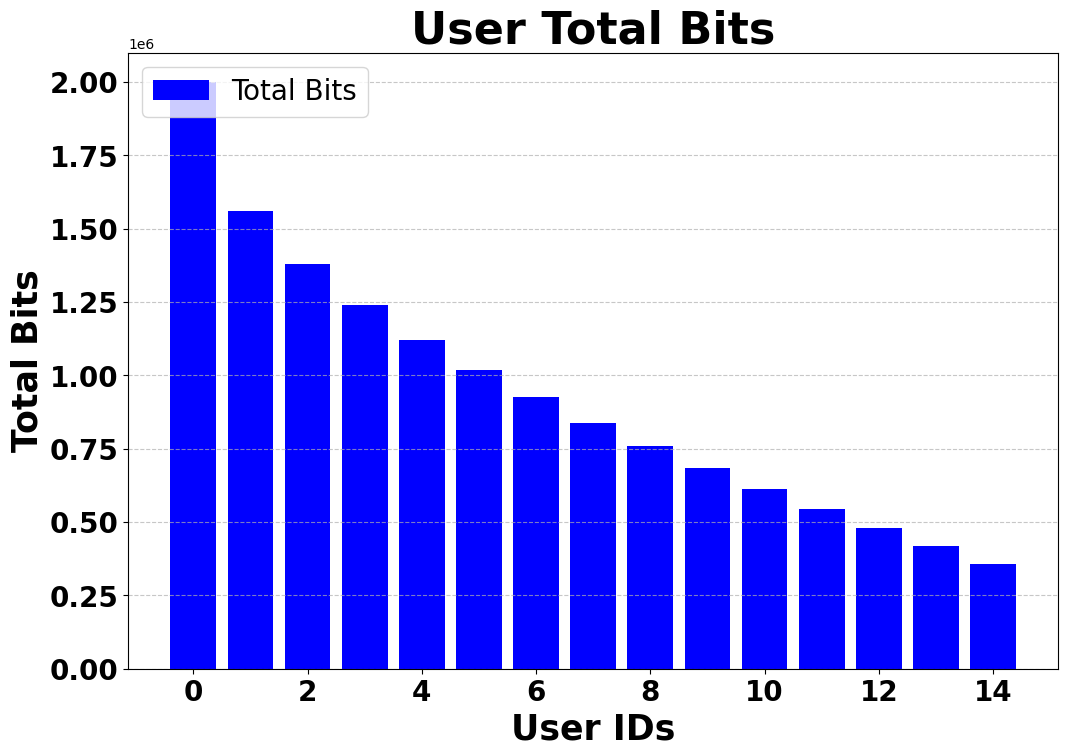
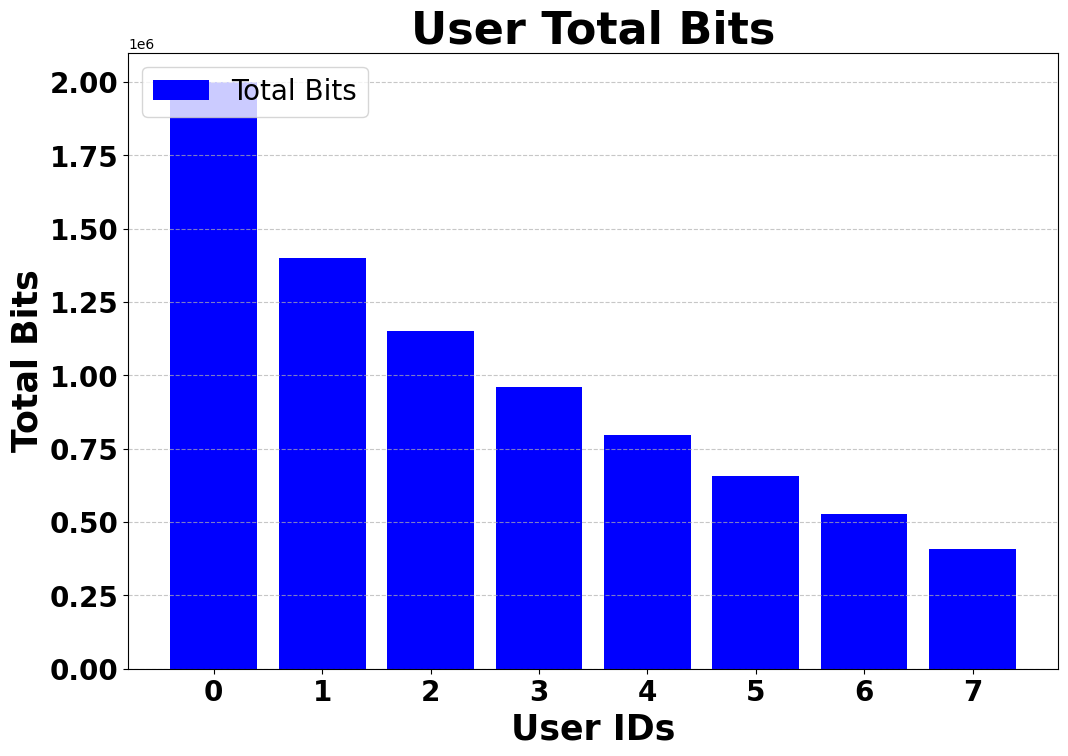
Pure Game Trials

diff --git a/submodular_game_main.py b/submodular_game_main.py
@@ -4,14 +4,9 @@ import pickle
 import jax.numpy as jnp
 import logging
 from plot_graphs import plot_graphs
+from Utility_functions import setup_logger
 
-# Setup logging
-logging.basicConfig(
-	filename='single_game.log',  # Log file name
-	filemode='w',            # Mode: 'w' for overwrite, 'a' for append
-	level=logging.INFO,      # Logging level
-	format='%(asctime)s - %(levelname)s - %(message)s'  # Format of the log messages
-)
+system_logger = setup_logger('single_game', 'single_game.log')
 
 # Create a random key
 key = random.PRNGKey(20)
@@ -20,7 +15,7 @@ key = random.PRNGKey(20)
 N = 1
 #U = 100
 # Generate random user number for each node
-U = random.randint(key, (N,), 15, 15)
+U = random.randint(key, (N,), 8, 8)
 NODE_RADIUS = 2
 MIN_DISTANCE_BETWEEN_NODES = 100  # Minimum distance to maintain between nodes
 UAV_HEIGHT = 100
@@ -46,7 +41,7 @@ algorithm = Algorithms(convergence_threshold= CONVERGENCE_THRESHOLD)
 
 algorithm.setup_singular_experiment(number_of_nodes= N, number_of_users= U, node_radius= NODE_RADIUS, key= key, min_distance_between_nodes= MIN_DISTANCE_BETWEEN_NODES, uav_height= UAV_HEIGHT, 
 						   uav_energy_capacity=UAV_ENERGY_CAPACITY, uav_bandwidth= UAV_BANDWIDTH, uav_processing_capacity= UAV_PROCESSING_CAPACITY, uav_cpu_frequency= UAV_CPU_FREQUENCY, uav_velocity= UAV_VELOCITY, 
-							min_bits= MIN_BITS, max_bits= MAX_BITS, distance_min= DISTANCE_MIN, distance_max= DISTANCE_MAX, energy_level= ENERGY_LEVEL)
+							min_bits= MIN_BITS, max_bits= MAX_BITS, distance_min= DISTANCE_MIN, distance_max= DISTANCE_MAX, energy_level= ENERGY_LEVEL, logger= system_logger)
 
 # Get User IDs
 data_dict["User IDs"] = [user.get_user_id() for user in algorithm.get_graph().get_nodes()[0].get_user_list()]
@@ -55,18 +50,18 @@ data_dict["User IDs"] = [user.get_user_id() for user in algorithm.get_graph().ge
 data_dict["User Total Bits"] = [user.get_user_bits() for user in algorithm.get_graph().get_nodes()[0].get_user_list()]
 
 # Run the Submodular Game Algorithm
-convergence_history = algorithm.run_single_submodular_game(solving_method= "scipy", b=B, c=C)
+convergence_history = algorithm.run_single_submodular_game(solving_method= "scipy", b=B, c=C, logger= system_logger)
 #print(convergence_history)
 
 # Get time overhead of each user
 data_dict["User Time Overhead"] = [user.get_current_time_overhead()[0] for user in algorithm.get_graph().get_nodes()[0].get_user_list()]
-print(data_dict["User Time Overhead"])
+#print(data_dict["User Time Overhead"])
 
 # Get total overhead of each user
 data_dict["User Total Overhead"] = [user.get_current_total_overhead()[0] for user in algorithm.get_graph().get_nodes()[0].get_user_list()]
-print(data_dict["User Total Overhead"])
+#print(data_dict["User Total Overhead"])
 
-logging.info("Consumed Energy of each user  : {}".format([user.get_current_consumed_energy() for user in algorithm.get_graph().get_nodes()[0].get_user_list()]))
+system_logger.info("Consumed Energy of each user  : {}".format([user.get_current_consumed_energy() for user in algorithm.get_graph().get_nodes()[0].get_user_list()]))
 
 # Get consumed Energy of each user
 data_dict["User Consumed Energy"] = [(user.get_current_consumed_energy()) for user in algorithm.get_graph().get_nodes()[0].get_user_list()]

diff --git a/AoiUser.py b/AoiUser.py
@@ -505,18 +505,18 @@ class AoiUser:
 			denominator = 1 - (jnp.sum(self.other_user_strategies * self.other_user_bits) / self.uav_total_capacity)
 
 			current_time_overhead = ( ((self.data_in_bits * percentage_offloaded) / data_rate) + ((self.get_task_intensity() * percentage_offloaded * self.data_in_bits) / (denominator * uav_cpu_frequency)))
-			
-			##logging.info("CONSTRAINT: Time Overhead: %f", current_time_overhead/self.T)
-     
-			return 1 - (current_time_overhead/self.T) # Time overhead should be less than T #0.5 and noone can go high
+			print("Time Overhead: ", current_time_overhead/self.T)
+			#logging.info("CONSTRAINT: Time Overhead: %f", current_time_overhead/self.T)
+
+			return self.T - current_time_overhead # Time overhead should be less than T #0.5 and noone can go high
 
 		def energy_variance_constraint(percentage_offloaded):
 			
 			current_consumed_energy = ((percentage_offloaded * self.get_total_bits()) / (self.get_current_data_rate())) * self.get_transmit_power()
    
-			##logging.info("CONSTRAINT: Consumed Energy: %f", current_consumed_energy/self.total_capacity)
-			
-			return 1 - (current_consumed_energy/self.total_capacity)  # Energy overhead should be less than total capacity
+			#logging.info("CONSTRAINT: Consumed Energy: %f", current_consumed_energy/self.total_capacity)
+			print("Energy Overhead: ", 1 - (current_consumed_energy/self.total_capacity))
+			return self.total_capacity - current_consumed_energy  # Energy overhead should be less than total capacity
 		
 		constraints = [
 			{'type': 'ineq', 'fun': constraint_positive},  # percentage_offloaded >= 0

diff --git a/Algorithms.py b/Algorithms.py
@@ -418,7 +418,8 @@ class Algorithms:
 					velocity=self.uav_velocity, uav_system_bandwidth=self.uav_bandwidth, cpu_frequency=self.uav_cpu_frequency, height=uav_height)
 		
 	def setup_singular_experiment(self, number_of_users: list, number_of_nodes: float, key: jax.random.PRNGKey, uav_height: float, min_distance_between_nodes: float, node_radius: float, uav_energy_capacity: float, 
-                         uav_bandwidth: float, uav_processing_capacity: float, uav_cpu_frequency: float, uav_velocity: float, energy_level: float, min_bits: float, max_bits: float, distance_min: float, distance_max: float)->None:
+                         uav_bandwidth: float, uav_processing_capacity: float, uav_cpu_frequency: float, uav_velocity: float, energy_level: float, min_bits: float, max_bits: float, distance_min: float, distance_max: float,
+						 logger: logging.Logger)->None:
 		"""
 		Setup the experiment
 		
@@ -452,6 +453,7 @@ class Algorithms:
 		self.max_bits = max_bits
 		self.distance_min = distance_min
 		self.distance_max = distance_max
+		self.logger = logger
 
 		
 		nodes = []
